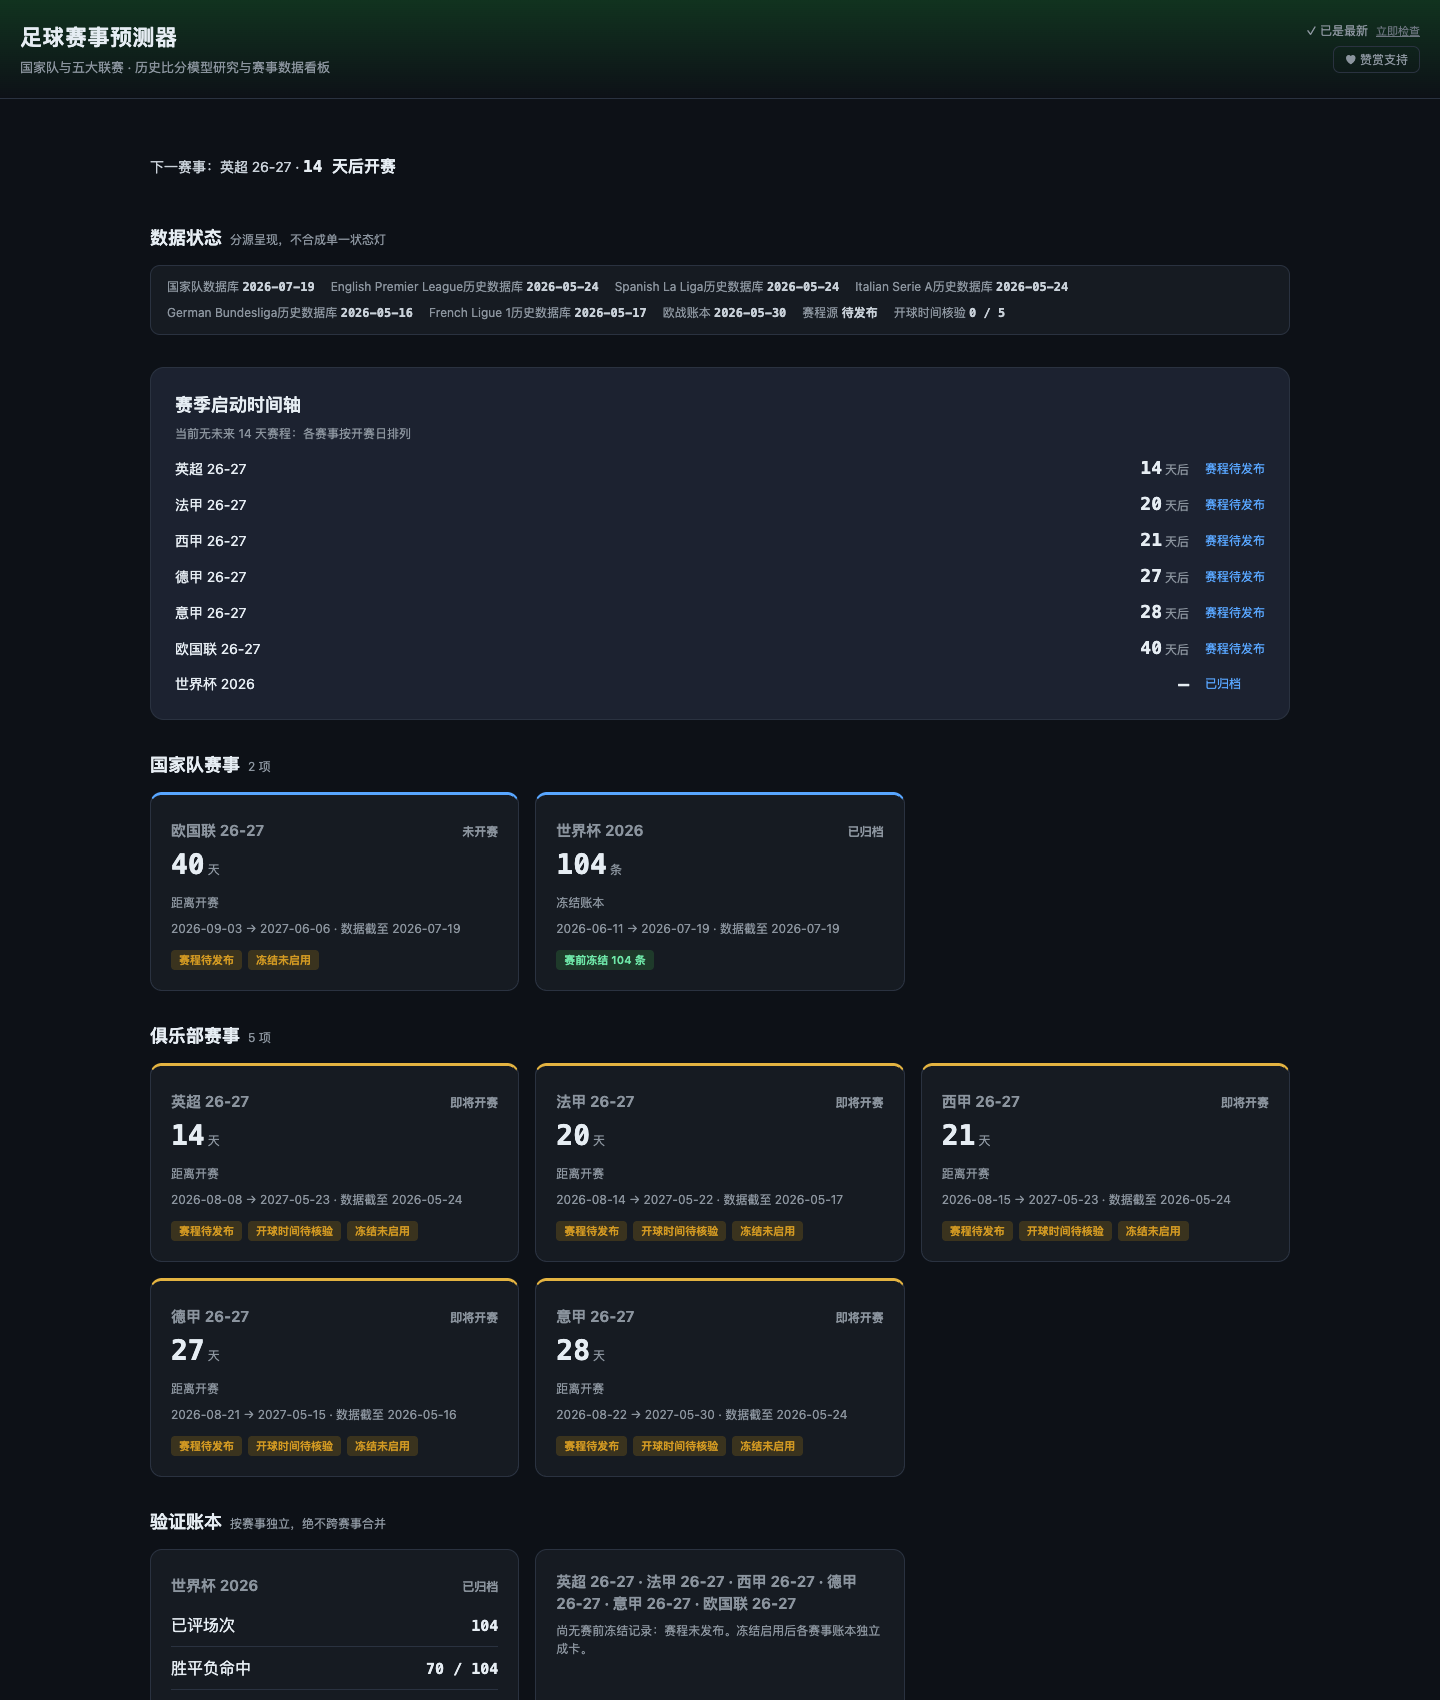
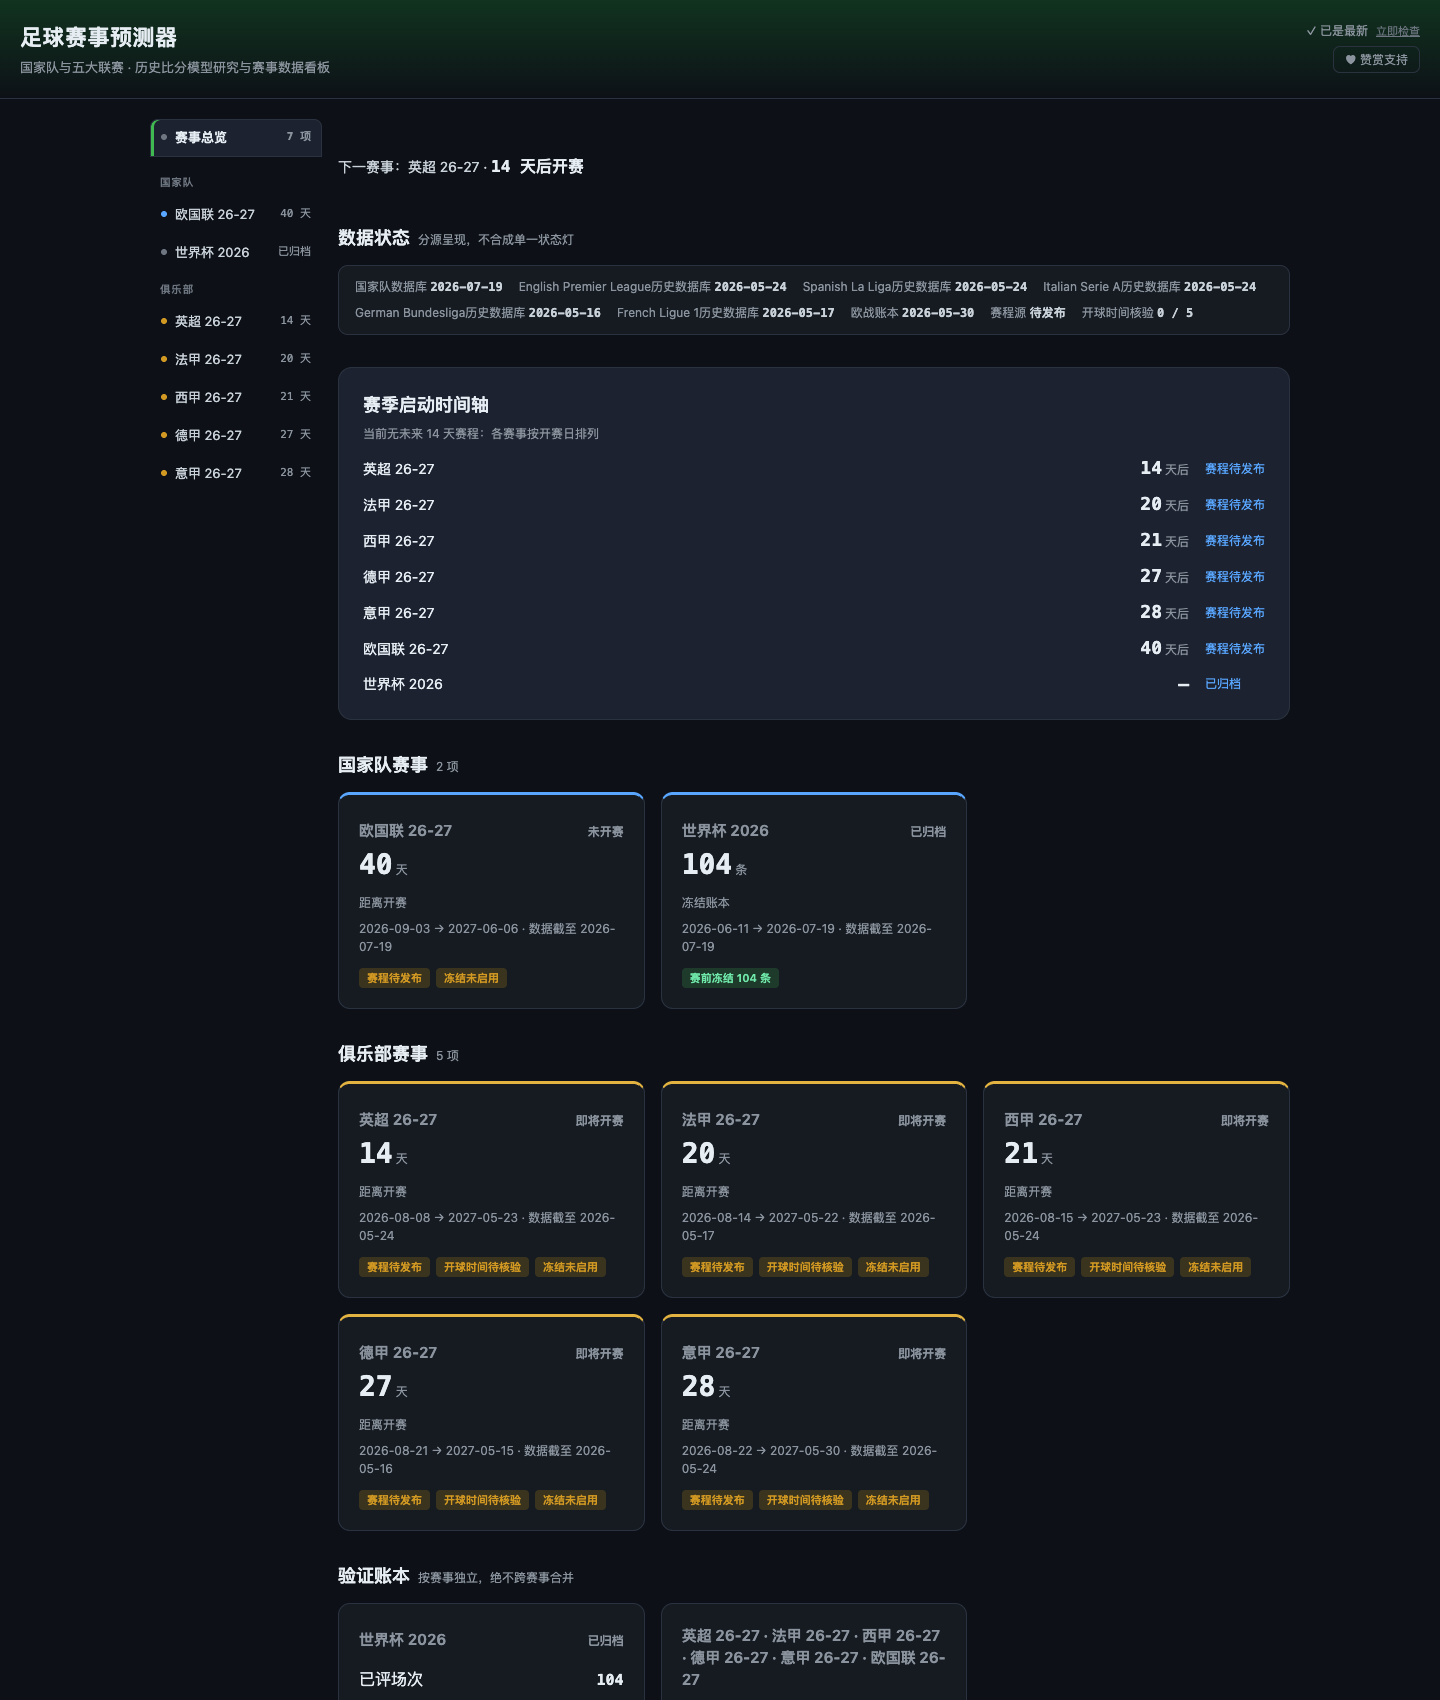
修复用户报的三点：首页点击不跳转 / 首页没菜单 / 菜单难看，207 测试绿
① **点击不跳转（真 bug）**：页面此前**没有 hashchange 监听**——路由只在加载时跑一次（IIFE），
   首页卡片里 location.hash=… 只改了地址栏、页面纹丝不动。新增 hashchange 路由，
   顺带让浏览器前进/后退在首页与赛事间正常工作（CDP 实测：点卡片→#epl2627/board 渲染 1868 字，
   点总览→#home，后退→回到 #epl2627/board 且 eventview 恢复显示）。
   回归测试 test_frontend_has_hashchange_router 锁定。
② **首页没菜单**：原设计（与 Codex 收口时）为避免与卡片重复而在首页隐藏赛事纵栏，
   实际用户需要随时切走。现首页保留菜单，「赛事总览」为首项且回首页走 push
   （后退能回到刚才的赛事，符合既定路由规则）。移动端把总览胶囊 position:sticky 吸附最左，
   否则横滚条把当前赛事滚进视野后，回首页的入口会被滚出屏幕。
③ **菜单难看**：七张等权厚卡片 + 大色块徽标 → 按模型宇宙分组（国家队 / 俱乐部）的单行条目，
   状态用小圆点 + 等宽数字（14 天 / 已归档），选中态左侧强调条。

**CSS 层叠暗坑（值得记）**：新菜单样式最初追加在样式表末尾，把更靠前的 ≤760px 媒体查询整个覆盖，
实测把移动端胶囊背景冲成透明——吸附的「赛事总览」变成透明层叠在其他条目上（CDP 读到
backgroundColor: rgba(0,0,0,0)）。修法：布局类规则限定 @media(min-width:761px)，
颜色/圆点/省略号等与布局无关的规则保持全局。追加样式到长样式表末尾前先看有没有更靠前的媒体查询。

验收：207 passed（205→207）· golden 十端点逐字节一致 · ui_check 三路由 × 四视口全通过 ·
截图 docs/evidence/home-offseason-*.png + home-menu-detail-mobile-390.png。

diff --git a/templates/index.html b/templates/index.html
@@ -510,8 +510,15 @@
   .wrap{display:block}
   .evbar{position:static;flex-direction:row;flex-wrap:nowrap;overflow-x:auto;
          -webkit-overflow-scrolling:touch;padding-bottom:4px;margin:0 0 12px}
-  .ev{flex-direction:row;align-items:center;gap:7px;white-space:nowrap;border-radius:18px;padding:6px 13px}
-  .ev.on{box-shadow:inset 0 -2px 0 #3fb950}
+  /* 窄屏：纵向菜单退化为单行横滚胶囊（分组小标题在横滚条里没意义，隐藏） */
+  .ev{display:inline-flex;flex:0 0 auto;align-items:center;gap:7px;white-space:nowrap;
+      border-radius:18px;padding:8px 13px;border:1px solid var(--line);background:var(--panel)}
+  .ev.on{box-shadow:inset 0 -2px 0 var(--grn2)}
+  .ev .ev-nm{overflow:visible;text-overflow:clip}
+  .ev-gl{display:none}
+  /* 「赛事总览」吸附最左：横滚条会把当前赛事滚进视野，回首页的入口否则会被滚出屏幕外 */
+  .ev-home{margin-bottom:0;border-radius:18px;padding-bottom:8px;
+    position:sticky;left:0;z-index:2;background:var(--panel2);border-color:var(--line2)}
 }
 /* 横滚表格右缘渐隐提示（全部 overflow-x:auto 表格容器共用）：
    两个 local 渐变=「盖布」随内容滚动、滚到边缘时盖掉提示；scroll 光晕固定容器右缘=「右边还有内容」。 */
@@ -531,9 +538,31 @@
   --num-font:ui-monospace,SFMono-Regular,Menlo,Consolas,monospace;
 }
 #homeview{display:none}
-body.home-mode .evbar{display:none}          /* 首页不出赛事纵栏：与赛事卡片网格重复 */
-body.home-mode .wrap{grid-template-columns:minmax(0,1fr)}
-body.home-mode .wrap>*{grid-column:1}
+/* ===== 赛事菜单重做（左侧纵栏）=====
+   原样式是七张等权厚卡片 + 大色块徽标，既看不出层级也占地方。改为：
+   分组小标题（国家队 / 俱乐部）→ 单行条目 → 状态用小圆点+等宽数字，选中态左侧强调条。 */
+@media(min-width:761px){
+.evbar{gap:2px}
+  .ev-gl{font-size:10.5px;letter-spacing:.08em;color:var(--dim);font-weight:600;
+    padding:10px 10px 4px;text-transform:uppercase}
+  .ev{display:grid;grid-template-columns:6px minmax(0,1fr) auto;align-items:center;gap:8px;
+    padding:8px 10px;border-radius:8px;background:transparent;border:1px solid transparent;
+    cursor:pointer;font-size:13px;line-height:18px;color:var(--mut2);user-select:none;
+    transition:background .12s,color .12s;min-height:36px}
+  .ev:hover{background:var(--panel);color:var(--txt)}
+  .ev.on{background:var(--panel2);color:var(--txt);border-color:var(--line);font-weight:600;
+    box-shadow:inset 3px 0 0 var(--grn2)}
+  .ev .ev-dot{width:6px;height:6px;border-radius:50%;background:var(--dim)}
+  .ev .ev-nm{min-width:0;overflow:hidden;text-overflow:ellipsis;white-space:nowrap}
+  .ev .ev-x{font-family:var(--num-font);font-variant-numeric:tabular-nums;font-size:11px;
+    color:var(--mut);white-space:nowrap}
+  .ev.d-live .ev-dot{background:var(--grn2);box-shadow:0 0 0 3px #2ea04326}
+  .ev.d-soon .ev-dot{background:var(--warn)}
+  .ev.d-upcoming .ev-dot{background:var(--acc)}
+  .ev.d-archived .ev-dot{background:var(--dim)}
+  .ev-home{margin-bottom:6px;border-bottom:1px solid var(--line);border-radius:8px 8px 0 0;
+    padding-bottom:10px}
+}
 .hm-hero{padding:var(--sp6) 0 var(--sp4)}
 .hm-hero h1{font-size:30px;line-height:38px;font-weight:750;margin:0 0 6px}
 .hm-hero p{font-size:14px;line-height:22px;color:var(--mut);margin:0}
@@ -2777,13 +2806,26 @@ function evApplyIdentity(meta, home){
   if(h1) h1.textContent = `⚽ ${meta.name}`;
   if(sub) sub.textContent = line;
 }
+function evShortState(e){
+  if(e.status==='live') return '进行中';
+  if(e.status==='archived') return '已归档';
+  return (e.days_to_start!=null? e.days_to_start+' 天':'未开赛');
+}
 function renderEvbar(){
   const bar = $('#evbar'); if(!bar || !EVENTS_META) return;
-  // 第一项固定为「赛事总览」：赛事详情页始终有一条回首页的路（首页本身不显示纵栏）
-  bar.innerHTML = `<span class="ev${CUR_EVENT==='__home__'?' on':''}" data-ev="__home__" onclick="goHome()">赛事总览
-      <small class="b-upcoming">全部 ${EVENTS_META.length}</small></span>`
-    + EVENTS_META.map(e =>
-    `<span class="ev${e.key===CUR_EVENT?' on':''}" data-ev="${e.key}" onclick="selectEvent('${e.key}')">${e.name} ${evBadge(e)}</span>`).join('');
+  // 首项固定「赛事总览」（首页也保留菜单：用户要能随时切走，而不是只能靠卡片）；
+  // 其余按模型宇宙分组——国家队与俱乐部是两套模型、两套数据源，菜单里就该分开。
+  const item = e => `<span class="ev d-${e.status}${e.key===CUR_EVENT?' on':''}" data-ev="${e.key}"
+      onclick="selectEvent('${e.key}')" title="${e.name}">
+      <i class="ev-dot"></i><span class="ev-nm">${e.name}</span><span class="ev-x">${evShortState(e)}</span></span>`;
+  const grp = (label, arr) => arr.length
+    ? `<div class="ev-gl">${label}</div>` + arr.map(item).join('') : '';
+  const club = EVENTS_META.filter(e=>(e.universe||'').startsWith('club'));
+  const natl = EVENTS_META.filter(e=>!(e.universe||'').startsWith('club'));
+  bar.innerHTML =
+    `<span class="ev ev-home${CUR_EVENT==='__home__'?' on':''}" data-ev="__home__" onclick="location.hash='home'">
+       <i class="ev-dot"></i><span class="ev-nm">赛事总览</span><span class="ev-x">${EVENTS_META.length} 项</span></span>`
+    + grp('国家队', natl) + grp('俱乐部', club);
   const on = bar.querySelector('.ev.on');   // 窄屏横滚菜单：当前赛事滚出视野时自动滚到可见（桌面纵向同理，nearest 不打扰）
   if(on && on.scrollIntoView) on.scrollIntoView({inline:'nearest', block:'nearest'});
 }
@@ -2792,7 +2834,6 @@ function selectEvent(key, tab, qs){
   if(key==='__home__' || key==='home') return goHome();
   if(!EVENT_KEYS.includes(key)) key = 'wc2026';
   if(!EVENTS_META) loadEvents();                     // 首拉失败后的重试入口（loadEvents 失败已清 _evLoadP）
-  document.body.classList.remove('home-mode');       // 离开首页：恢复赛事纵栏与详情布局
   $('#homeview').style.display = 'none';
   CUR_EVENT = key;
   const isWC = key === 'wc2026';
@@ -2948,7 +2989,6 @@ function renderHome(){
 }
 function goHome(push){
   CUR_EVENT = '__home__';
-  document.body.classList.add('home-mode');
   const tabs = document.querySelector('.tabs'); if(tabs) tabs.style.display = 'none';
   WC_SECTIONS.forEach(s=>{ const el=$('#'+s); if(el) el.style.display='none'; });
   document.querySelectorAll('.tab').forEach(x=>x.classList.remove('on'));   // 停全部轮询
@@ -3450,6 +3490,21 @@ loadEvents();
       if(aa&&$('#mg_away'))$('#mg_away').value=decodeURIComponent(aa);
       if($('#mg_neutral'))$('#mg_neutral').checked=(p.get('neutral')==='1'); loadManager(0); }, 220);
   }})();
+
+// hashchange 路由：**首页卡片/比赛流/时间轴的点击全靠它生效**。
+// 此前路由只在加载时跑一次（IIFE），首页里 location.hash=… 只改了地址栏、页面纹丝不动
+// ——「点了不跳转」的根因。同时它让浏览器前进/后退在首页与赛事之间正常工作。
+window.addEventListener('hashchange', function(){
+  const raw = location.hash.slice(1), [h] = raw.split('?');
+  if(!raw || h==='home'){ if(CUR_EVENT!=='__home__') goHome(false); return; }
+  let ev='wc2026', tab='';
+  if(h.includes('/')){ const i=h.indexOf('/'); ev=evResolve(h.slice(0,i)); tab=h.slice(i+1); }
+  else if(EVENT_KEYS.includes(evResolve(h))){ ev=evResolve(h); }
+  else { tab=h; }                                    // 旧单段深链（#bracket 等）→ 世界杯对应 tab
+  if(!EVENT_KEYS.includes(ev)) ev='wc2026';
+  if(ev===CUR_EVENT && ev!=='wc2026' && !tab) return;   // 同赛事同视图：不重复渲染
+  selectEvent(ev, tab||undefined);
+});
 // —— 统一数据调度器 —— 取代之前分散的 4 个 setInterval。原先各自判 visibility + 当前 tab，
 // 易漏（曾导致后台轮询误渲晋级树）、且多 tab 来回切会叠多个 live 请求。现集中管理：
 //   · 单一心跳(15s) 扫描所有注册任务；只在「该任务的 tab 当前可见」时触发，切走自动停。

diff --git a/test_core.py b/test_core.py
@@ -3210,3 +3210,27 @@ def test_club_board_declares_frozen_over_preview_priority():
     assert "evFrozenIndex" in src
     assert "赛前冻结 ·" in src and "当前模型估算（未冻结）" in src
     assert "loadHomeData()" in src
+
+
+def test_frontend_has_hashchange_router():
+    """首页卡片/时间轴的点击全靠 hashchange 路由生效。
+
+    回归的是一个真实缺陷：此前路由只在加载时跑一次（IIFE），首页里 location.hash=… 只改地址栏、
+    页面纹丝不动（用户报「主页不支持跳转」）。同时它保证浏览器前进/后退可用。"""
+    src = open(_os.path.join(_os.path.dirname(__file__), "templates", "index.html"),
+               encoding="utf-8").read()
+    assert "addEventListener('hashchange'" in src
+    i = src.index("addEventListener('hashchange'")
+    body = src[i:i + 800]
+    assert "goHome(false)" in body and "selectEvent(" in body and "evResolve(" in body
+
+
+def test_frontend_menu_visible_on_home_and_grouped():
+    """菜单在首页也在（用户要能随时切走），且按模型宇宙分组。"""
+    src = open(_os.path.join(_os.path.dirname(__file__), "templates", "index.html"),
+               encoding="utf-8").read()
+    assert "body.home-mode .evbar{display:none}" not in src.replace(" ", "")
+    i = src.index("function renderEvbar")
+    body = src[i:i + 1400]
+    assert "国家队" in body and "俱乐部" in body and "ev-home" in body
+    assert "location.hash='home'" in body          # 回首页走 push，后退能回到刚才的赛事
